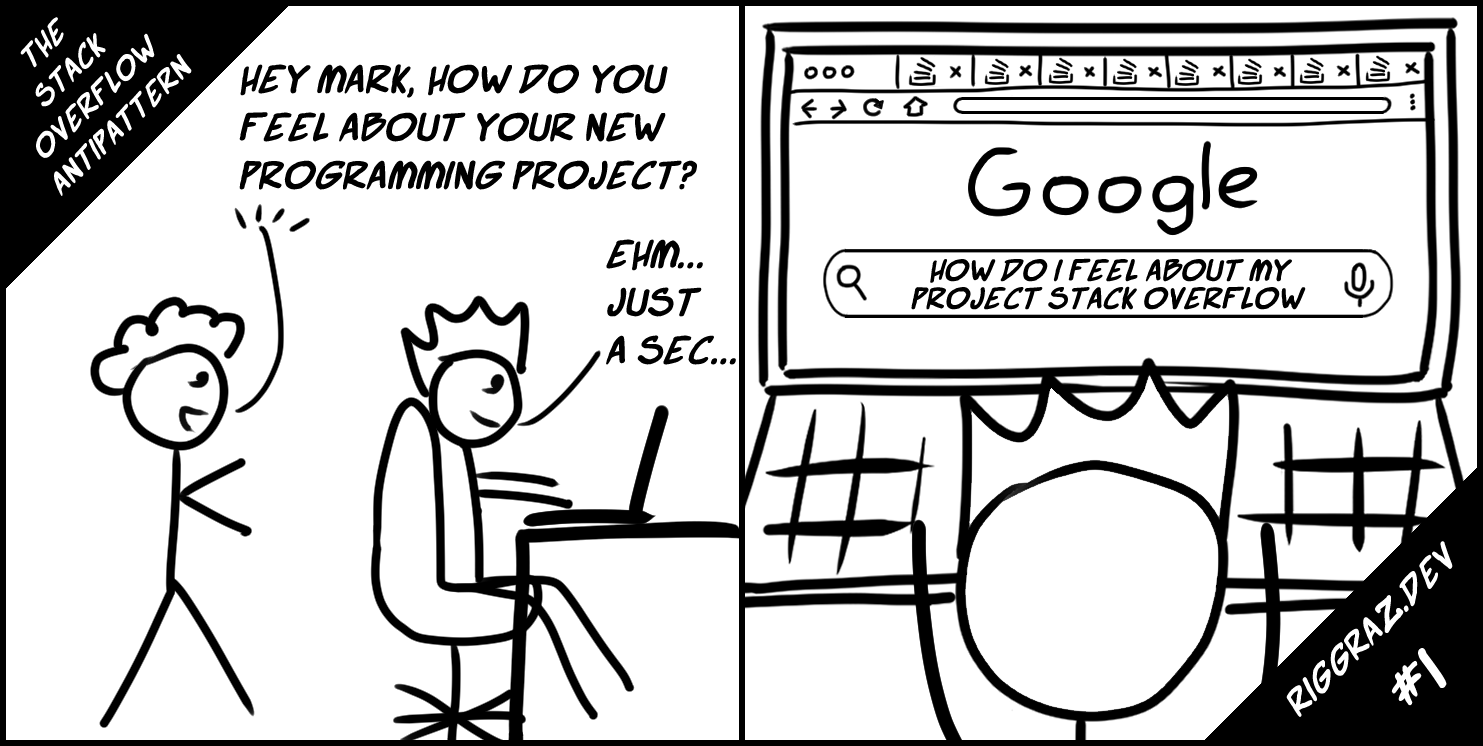
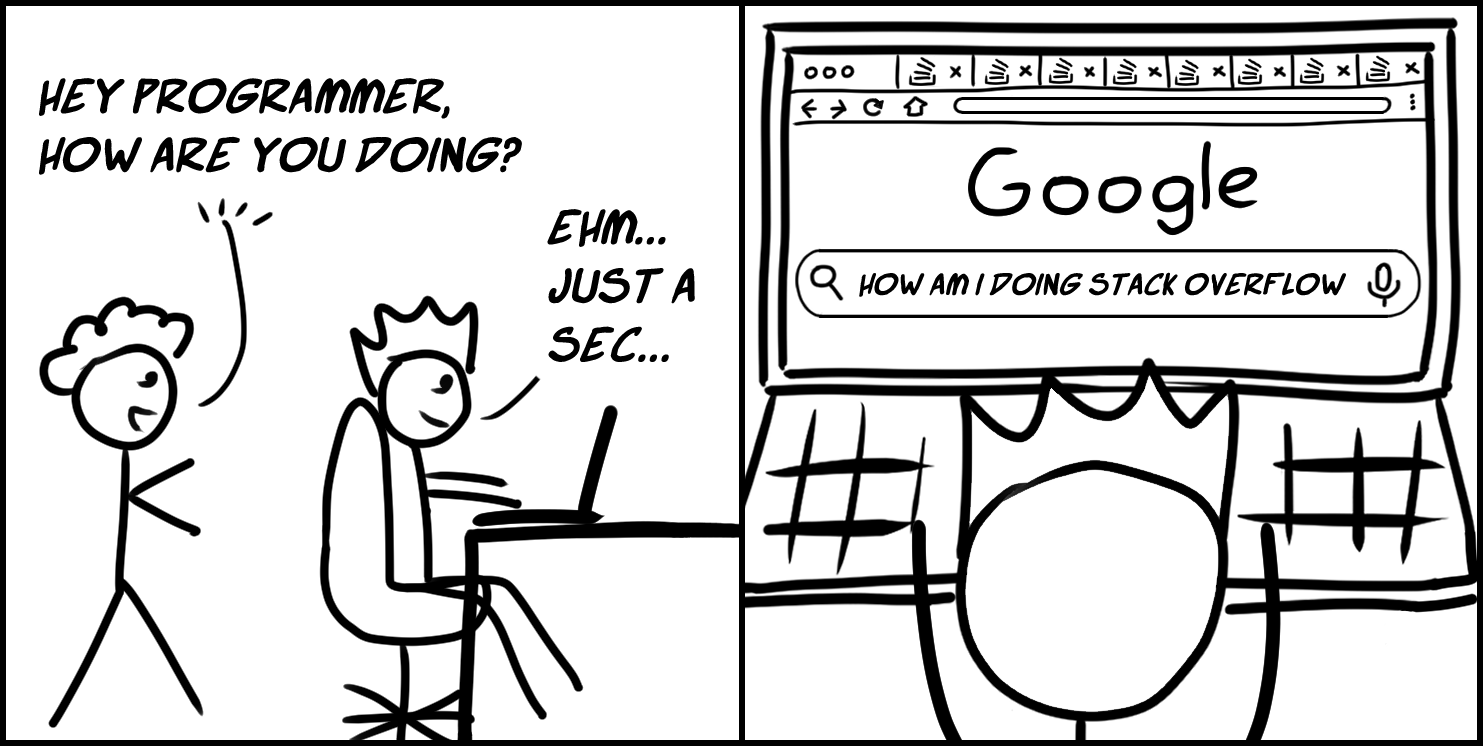
Improve "The Stack Overflow Antipattern" post

Changed region(s): [[0.0, 0.0, 0.4963, 1.0], [0.8065, 0.6166, 1.0, 1.0], [0.5273, 0.3391, 0.9616, 0.4316]]

diff --git a/_posts/2020-09-18-the-stack-overflow-antipattern.md b/_posts/2020-09-18-the-stack-overflow-antipattern.md
@@ -4,16 +4,16 @@ title: The Stack Overflow Antipattern
 slug: stack-overflow-antipattern
 ---
 
-Sometimes programming can be frustrating. In the last few years I've noticed a recurrent pattern that leads me to frustration. I like to call it *Stack Overflow Antipattern*.
+Sometimes programming can be frustrating. In the last few years I've noticed a recurrent pattern that drives me mad. I like to call it *Stack Overflow Antipattern*.
 
-In this ~~informal blog post~~ rigorous medical paper I'll explain the symptoms of this ~~antipattern~~ disease, possible causes and treatments.
+In this ~~informal blog post~~ rigorous medical paper I'll explain the symptoms, possible causes and treatment for this horrible ~~antipattern~~ disease.
 
 ---
 {: data-content="symptoms"}
 
 My definition of the Stack Overflow Antipattern is the following:
 
-> Spending more time into looking for a solution rather than thinking about it.
+> Spending more time looking for a solution rather than thinking about it.
 
 For me, it goes like this:
 
@@ -35,9 +35,9 @@ During the whole process I'm completely focused on looking for a solution, I'm *
 
 I think there are several causes that can lead to the Stack Overflow Antipattern.
 
-The root cause, from which a number of other reasons descend, is a lack of thinking. Obviusly, not understanding the problem and the possible solutions results in a trial-and-error approach, which is exactly what the antipattern is about. But, at least personally, why don't I take the time to think?
+The root cause is a lack of thinking. Obviously, not understanding the problem and the possible solutions results in a trial-and-error approach, which is exactly what the antipattern is about. But, at least personally, why don't I take the time to think?
 
-Firstly, I know that the answer to my problem is probably somewhere on the web. We're all used to be spoon-fed by Stack Overflow from time to time. We're all used to have fast access to tons of valuable information over the internet, so why not searching there before anything else?
+Firstly, I know that the answer to my problem is probably somewhere on the web. We're all used to being spoon-fed by Stack Overflow. We're all used to having immediate access to tons of valuable information over the internet, so why not search there before overworking one's grey matter?
 
 Another reason is that, as a programmer, it may happen to face a lot of problems, maybe even problems not directly related to one's field. Even though each problem and its solution could be properly understood, there are a lot of reasons why one could decide not to do so. Examples are: hurry, incompetence, tiredness, slackness, etc.
 
@@ -46,28 +46,28 @@ Whatever the reason, we therefore decide, more or less consciously, not to think
 ---
 {: data-content="treatment"}
 
-So, ultimately, the Stack Overflow Antipattern is all about a lack of reasoning. So, what is the best (and free!) treatment to a lack of thinking? Well, thinking more.
+So, ultimately, the Stack Overflow Antipattern is all about a lack of reasoning. What then is the best (and free!) treatment for a compulsive refusal to think? Well, more thinking.
 
 In particular, I believe there are three broadly-defined phases in which one should pause and ponder:
 
 1. Before the search. The problem should be crystal clear in order to write the right query that will help find the solution. Bad search queries (or, even worse, queries about the *wrong* problem) rarely lead to satisfying answers.
-2. During the search. The solution found should be at least clear enough to understand it can solve the problem at hand (possibly without causing other problems!).
+2. During the search. The solution found should be at least clear enough to be sure it can solve the problem at hand (possibly without causing other problems!).
 3. After the solution proved to work. This is the time to pause again and synthesize problem and solution together. Everything should be clear enough to remember it afterwards (or at least remember how to find the solution again), in order to solve the problem faster if it occurs again. This will save time in the long run.
 
-The subdivision above is by no means a strict rule, but a general guideline I came up with while writing the article. The heart of the matter is that one should think a lot before and after searching the web.
+The list above is by no means a strict rule, but a general guideline I came up with while writing the article. The heart of the matter is that one should think a lot before and after searching the web.
 
 ---
 {: data-content="conclusions"}
 
-Before closing up, I have to make two clarifications.
+Before closing up, I must emphasize two points.
 
 First, I'm not saying that Stack Overflow or similar resources *shouldn't* be used. The point is that they shouldn't be used *mindlessly*.
 
-Second, it's inevitable that sometimes, for a number of reasons, the Stack Overflow Antipattern will occur. Depending on the scenario, it could also be the best choice. For example, if a project is late on schedule and a delivery has to be made shortly, there could be no time to stop to think why a certain solution works. And that's okay. The important thing is to find a balance that takes into consideration both external factors (e.g. deadlines) and internal ones (e.g. one's desire to learn), and to be conscious when falling into the antipattern.
+Second, it's inevitable that sometimes, for a number of reasons, the Stack Overflow Antipattern will occur. Depending on the scenario, it could also be the best choice. For example, if a project is running late and timely delivery is essential, there could be no time to stop to think why a certain solution works. And that's okay. The important thing is to find a balance that takes into consideration both external factors (e.g. deadlines) and internal ones (e.g. one's desire to learn), and to consciously fall into the antipattern.
 
 In the end, I think that the point of this article is pretty trivial. Everybody knows that thinking is an essential part of solving a problem, even if the answer is already available somewhere.
 
-However, I also believe that a large chunk of programmers are victims of the Stack Overflow Antipattern. At least I am, from time to time, but more than I'd like to.
+However, I also believe that many programmers are victims of the Stack Overflow Antipattern. At least I am, from time to time, but more than I'd like to.
 
 ---
 {: data-content="discussion"}
@@ -80,4 +80,4 @@ Moreover, if you liked the article, consider subscribing to my [newsletter](http
 
 Trivia: I had the idea of this post nearly one year ago and is the number one reason that made me open this blog. It should've been the first article, but, just as I started writing it, I got the inspiration for the [code and memory post](https://riggraz.dev/code-and-memory.html). Since the latter was simpler and shorter, I decided to write it first.
 
-I also want to mention that the comic was a last-minute idea. And, given my drawing skills, it was probably a bad idea.
+I also want to mention that the comic strip was a last-minute idea. And, given my drawing skills, it was probably a bad idea.
